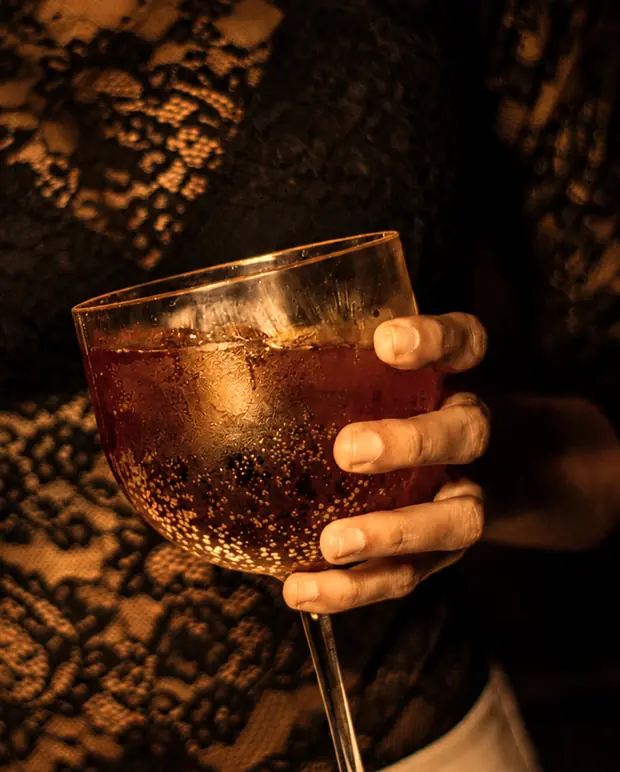
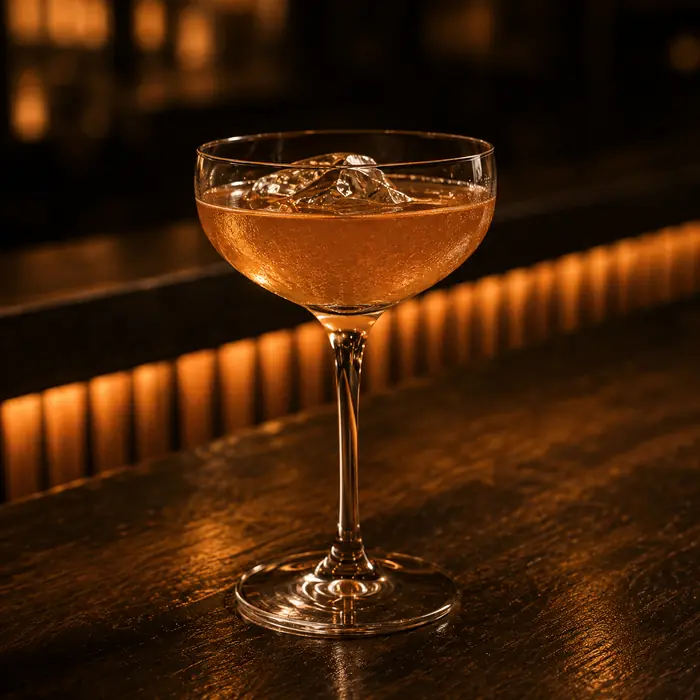
feat: add cup product page imagery, styles, and dynamic photo loading script

diff --git a/index.html b/index.html
@@ -272,22 +272,47 @@
 
            ── Uma ideia ───────────────────────────────────────────────────
 
-           O que a casa serve tem a cor do nome dela. A fotografia grande é
-           uma taça de âmbar no jardim, contra a mesma folhagem do capítulo
-           anterior — a mesma parede, uma hora depois — e a pequena é a mesma
-           coisa a um palmo.
+           O que a casa serve tem a cor do nome dela. A fotografia grande são
+           as MÃOS DA CASA montando o drink no balcão — o mixing glass
+           despejando âmbar numa coupe sobre gelo, a fita de LED acesa por
+           baixo do tampo — e a pequena é o mesmo copo pronto, a um palmo.
 
            ── E é a única tela do site com foto DENTRO de foto ─────────────
 
            Duas distâncias do mesmo assunto no mesmo quadro, e a de perto
            está por CIMA da de longe, deslocada para fora da margem. Nenhuma
            outra composição da página empilha duas fotografias; a cabine e a
-           pausa põem duas lado a lado, o que é outra coisa. -->
+           pausa põem duas lado a lado, o que é outra coisa.
+
+           ── AS DUAS FOTOGRAFIAS TROCARAM, e a seção só agora cumpre ──────
+
+           A composição sempre esteve certa; o material desmentia ela. As
+           anteriores eram uma mulher de verde no jardim com uma taça e uma
+           coupe vermelha sobre renda preta, e tinham três defeitos que se
+           somavam (a conta está inteira em scripts/fotos.mjs):
+
+             · NÃO ERAM O MESMO COPO. Haste verde contra haste fina, amarelo
+               palha contra vermelho, fim de tarde contra noite fechada. E é
+               esta composição que denuncia: empilhar duas fotografias no
+               mesmo quadro obriga o olho a compará-las, então ela
+               AMPLIFICAVA o defeito em vez de escondê-lo
+             · a foto grande não era sobre o drink — o objeto mais claro do
+               quadro era uma bolsa metálica
+             · a frase diz "a cor do nome dela" e a taça era amarelo palha
+
+           Agora a de perto foi gerada A PARTIR da de longe, então "o mesmo
+           copo" é literal: mesma coupe, mesmo âmbar, mesmo gelo, mesmo
+           tampo, mesma fita de LED.
+
+           E a seção ganhou o que o site inteiro devia: havia quatro telas
+           com o copo PRONTO e nenhuma com a casa FAZENDO. Esta é a
+           primeira. -->
+
       <section class="copo" data-vrail="O COPO" data-choreo
                data-hora="19" data-hora-em="esq-baixo" data-som=".34">
         <div class="copo__stage">
           <figure class="copo__fundo">
-            <img src="/img/copo-jardim.webp" alt="Uma taça de coquetel âmbar na mão, no jardim." loading="lazy">
+            <img src="/img/copo-jardim.webp" alt="As mãos da casa despejando âmbar numa taça, no balcão." loading="lazy">
           </figure>
 
           <p class="copo__rotulo">
@@ -296,7 +321,7 @@
           </p>
 
           <figure class="copo__inset">
-            <img src="/img/copo-mao.webp" alt="A mesma taça a um palmo: âmbar dentro do vidro." loading="lazy">
+            <img src="/img/copo-mao.webp" alt="A mesma taça pronta, a um palmo: âmbar dentro do vidro." loading="lazy">
           </figure>
 
           <p class="copo__linha">O que a casa serve<br>tem a <b class="ouro">cor do nome dela</b>.</p>

diff --git a/src/styles/copo.css b/src/styles/copo.css
@@ -64,11 +64,19 @@
   width: 100%;
   height: 100%;
   object-fit: cover;
-  /* A taça está no terço alto à esquerda e a bolsa no miolo. Numa tela
-     estreita entra pouco mais de metade da largura: a 38% a taça fica
-     inteira no quadro e a folhagem escura sobra à direita, que é onde o
-     inset vai pousar. */
-  object-position: 38% 34%;
+  /* Remedido para a fotografia nova (as mãos montando o drink no balcão),
+     e ela é 9:16 de origem — a anterior era quase quadrada, e a diferença
+     muda tudo o que se vê no telefone.
+
+     A 0,56 contra a caixa de 0,46 do telefone, o `cover` escala pela
+     altura e entram 82% da largura: a altura inteira aparece e o segundo
+     valor não tem efeito. (Com a fotografia antiga, a 0,90, entravam 51% —
+     metade do quadro ficava do lado de fora.)
+
+     Centrado, os 82% seguram o mixing glass à esquerda, o fio de âmbar e a
+     coupe. O escuro que sobra à direita e no alto é onde o rótulo e o
+     inset pousam. */
+  object-position: 50% 50%;
 }
 
 /* A demão. Dois núcleos, como na troca: o rótulo no alto à esquerda e a
@@ -139,8 +147,11 @@
   width: 100%;
   height: 100%;
   object-fit: cover;
-  /* a taça ocupa o miolo do recorte; a mão entra pela direita */
-  object-position: 46% 50%;
+  /* A fonte é QUADRADA (1254×1254), escolhida para este slot: o inset mede
+     ~1,07 deitado e ~0,86 em pé, então um quadrado perde 6% de altura numa
+     orientação e 14% de largura na outra — e a taça está no meio nos dois
+     casos. Centrado é o certo; não há assunto nas bordas para salvar. */
+  object-position: 50% 50%;
 }
 
 /* ── A frase ───────────────────────────────────────────── */
@@ -163,8 +174,19 @@
 /* ── Tela larga ────────────────────────────────────────── */
 
 @media (min-width: 900px) {
+  /* Deitada, o corte inverte de eixo e fica SEVERO: a caixa é 1,6 contra
+     0,56 do arquivo, então entram 35% da altura e nenhum pixel de largura
+     se perde — o primeiro valor deixa de ter efeito.
+
+     35% não cabem o mixing glass (19—42%) e a coupe (45—72%) ao mesmo
+     tempo, então a âncora escolhe. A 51% a janela vai de 33% a 68%: pega o
+     pé do mixing glass, o fio inteiro e a coupe inteira, com a mão
+     entrando no canto de baixo. É o GESTO completo.
+
+     Medidas as vizinhas: a 30% a coupe fica sem haste, e a 65% o mixing
+     glass sai de cena e sobra um fio de âmbar vindo do nada. */
   .copo__fundo img {
-    object-position: 40% 40%;
+    object-position: 50% 51%;
   }
 
   .copo__inset {
